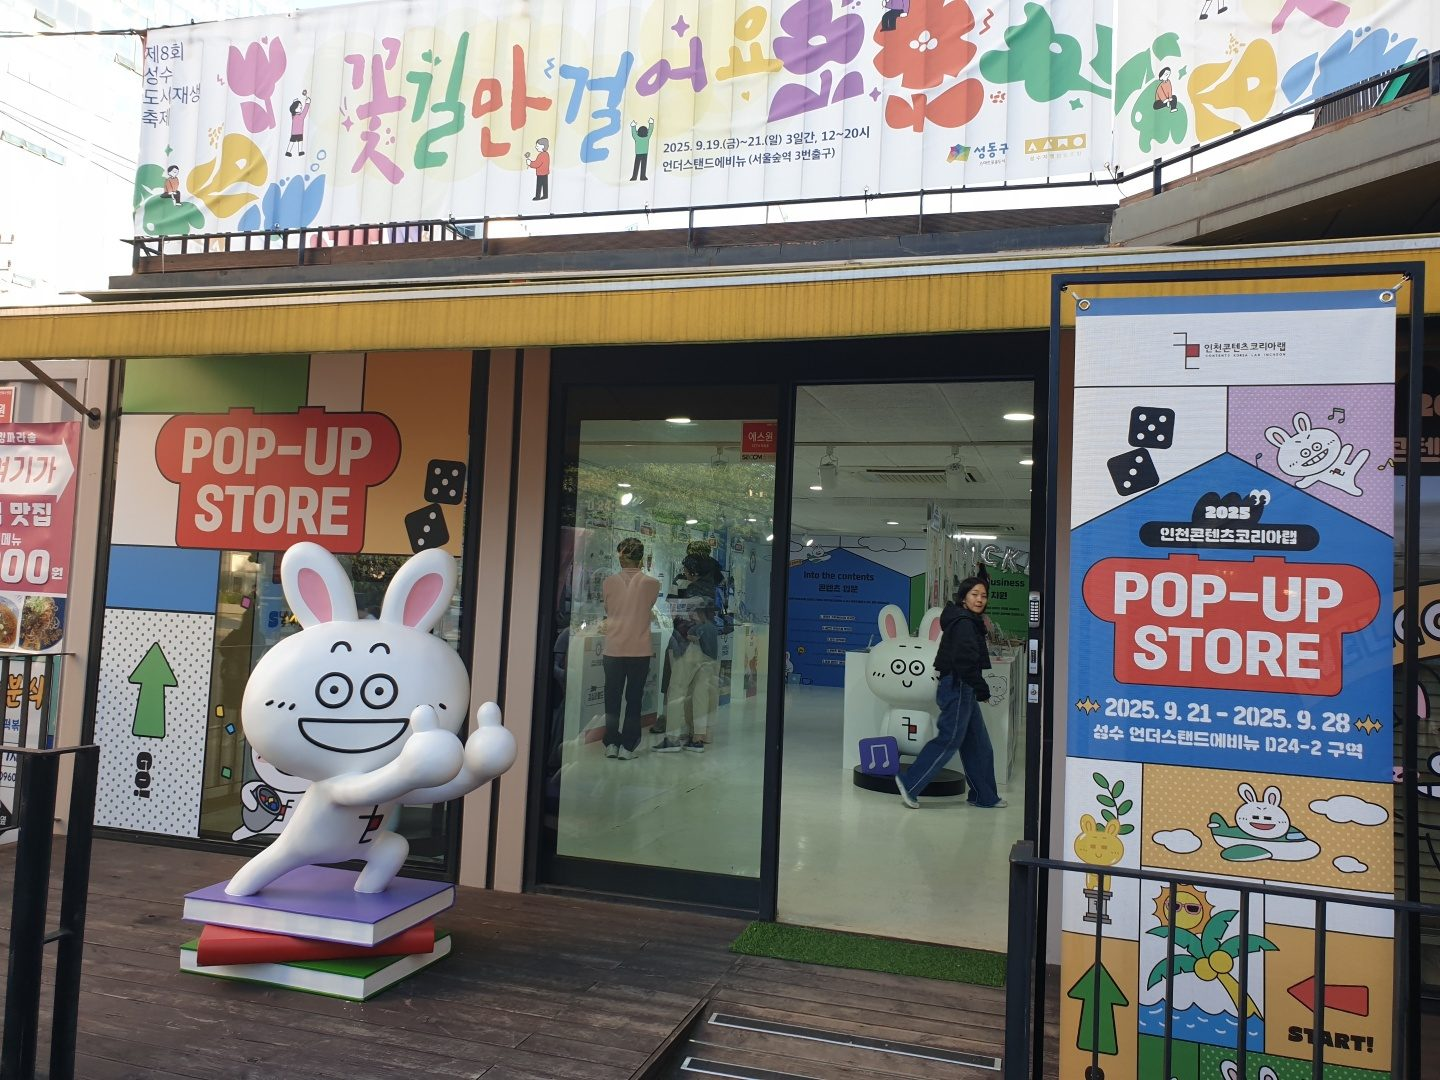
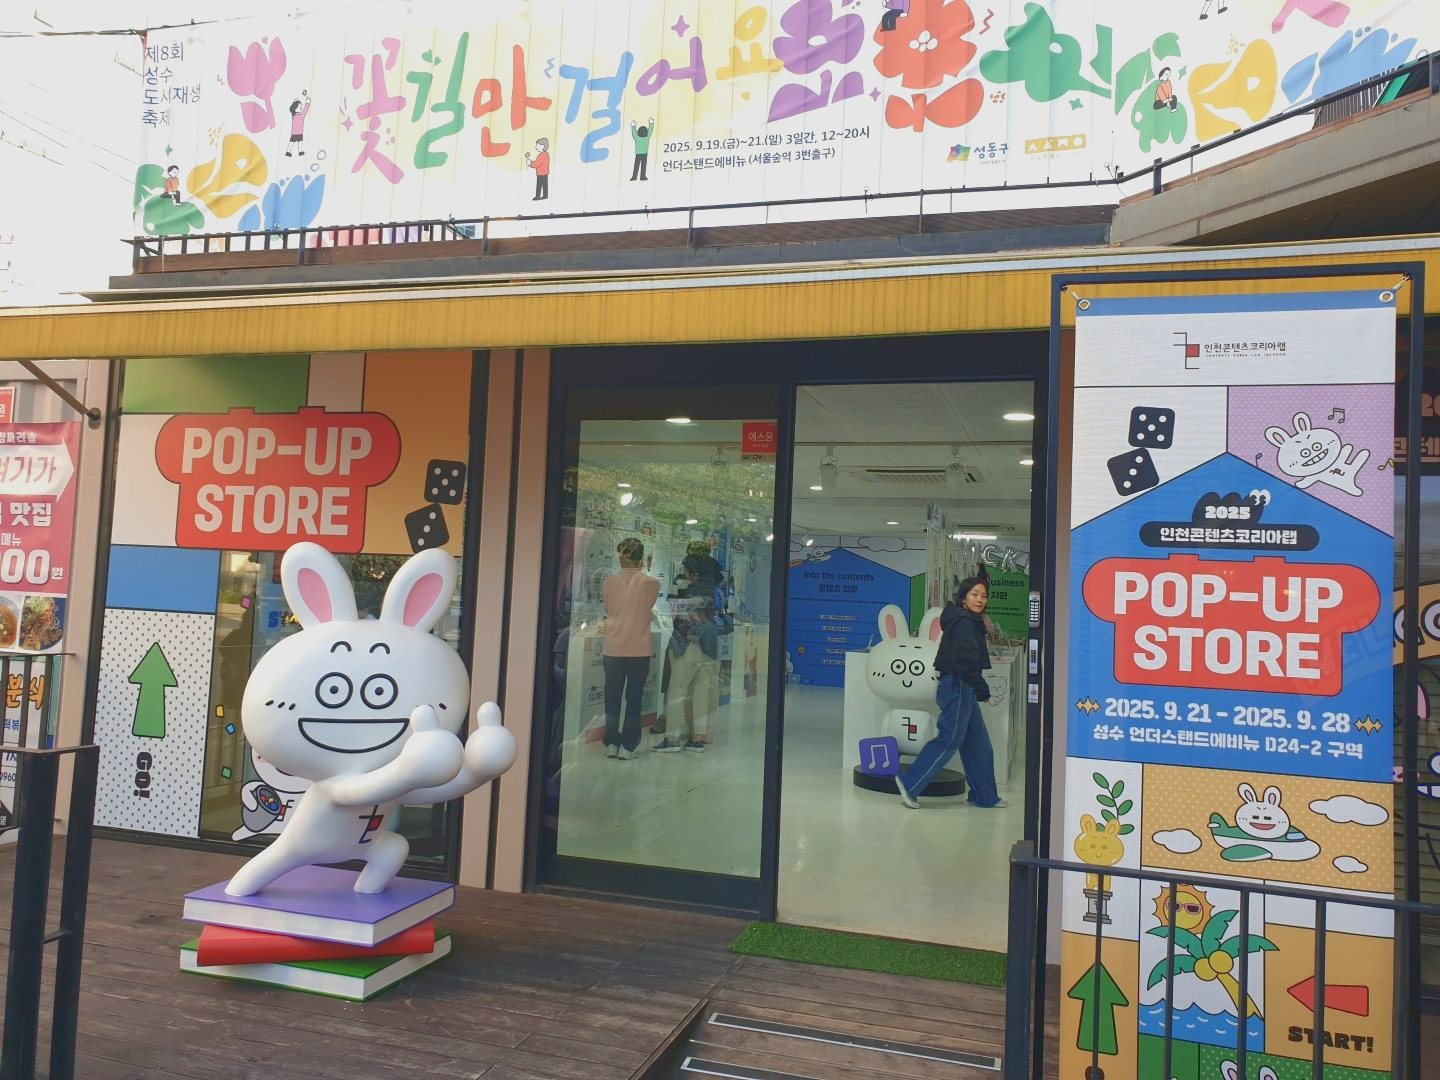
Match the tone across the booth photos
The five booth photos were shot in different light and read as five
different sets: the Square One shot had a yellow cast on white plinths,
the Seongsu storefront was blue and dark, and the Seongsu table shot was
washed out. Side by side in the exhibition list the mismatch was the
first thing you saw.

All five are now corrected to one baseline — white balance measured off
the white display furniture and paper, midtone at the same level, and a
common contrast spread. The outdoor storefront keeps most of its own
contrast; forcing it all the way to the indoor target flattened it.

Contrast is applied to luminance with RGB following as a ratio, so
saturation does not climb with it, and both ends roll off exponentially
instead of clipping. Highlight clipping went to zero on every photo and
crushed shadows dropped from 1.1% to 0.2% on the worst one.

og-projects.png carries three of these same photos, so the photo areas
inside its cards got the identical correction. The layout, frames, and
wordmark are untouched.

The invitation graphics are artwork, not photographs, and are unchanged.

Claude-Session: https://claude.ai/code/session_01QgRvqm5KdFrzDuKHhLccUb

diff --git a/CLAUDE.md b/CLAUDE.md
@@ -123,6 +123,26 @@ sitemap.xml
   휴대폰(≤440px)에서는 4칸을 유지하면 폭이 모자라 1.5배가 잘리므로 **2×2로 접힙니다.**
   같은 규칙이 `index.html`과 `about.html` 양쪽에 있습니다 — 함께 고치세요.
 
+### 전시 부스 사진의 톤 (projects.html)
+`assets/img/exhibitions/` 의 **부스 운영사진 5장**은 서로 톤이 달라서 한 번 맞춰 두었습니다
+(`busan-2025` · `seongsu-2025-1·2·3` · `squareone-2025`).
+초대장(`*-invite-*`)은 사진이 아니라 디자인이라 손대지 않았습니다.
+
+맞춘 기준 — **새 사진을 추가할 때 같은 값으로 맞추세요:**
+
+| 항목 | 목표 | 재는 법 |
+|---|---|---|
+| 화이트밸런스 | R/G `1.010` · B/G `0.972` | 밝기 65~93 백분위 + 채도 0.16 미만 화소(흰 진열대·종이)의 선형 평균 |
+| 밝기 | 밝기 중간값(p50) `0.640` | |
+| 대비 | p90 − p10 `0.440` | 야외 사진은 원래 대비가 커서 **60%만** 이동 |
+
+- 🚨 **대비는 밝기(luminance)에만 걸고 RGB 는 비율로 따라가게** 했습니다.
+  채널마다 따로 걸면 채도까지 올라가 사진이 튑니다.
+- 양 끝은 자르지 않고 지수로 눕혀(soft clip) 흰 소품이 뭉치지 않게 했습니다.
+- 원본은 커밋 이력에 있습니다 — 되돌리려면 이 커밋 직전 버전을 꺼내세요.
+- 🚨 **`og-projects.png` 안에도 같은 사진 3장이 들어 있습니다.** 사진 톤을 다시 바꾸면
+  이 카드도 함께 고치세요. 안 그러면 링크 미리보기만 옛 톤으로 남습니다.
+
 ## 다국어 (한/영 토글)
 - 상단 우측 **`🌐 한국어 ⌄` 버튼 → 누르면 목록(한국어 / English)이 펼쳐집니다.**
   - 접힌 버튼(`.lgtrig`)의 글자는 **지금 언어 이름**입니다. `setLang` 이 `.lgnow` 를 갱신합니다.
